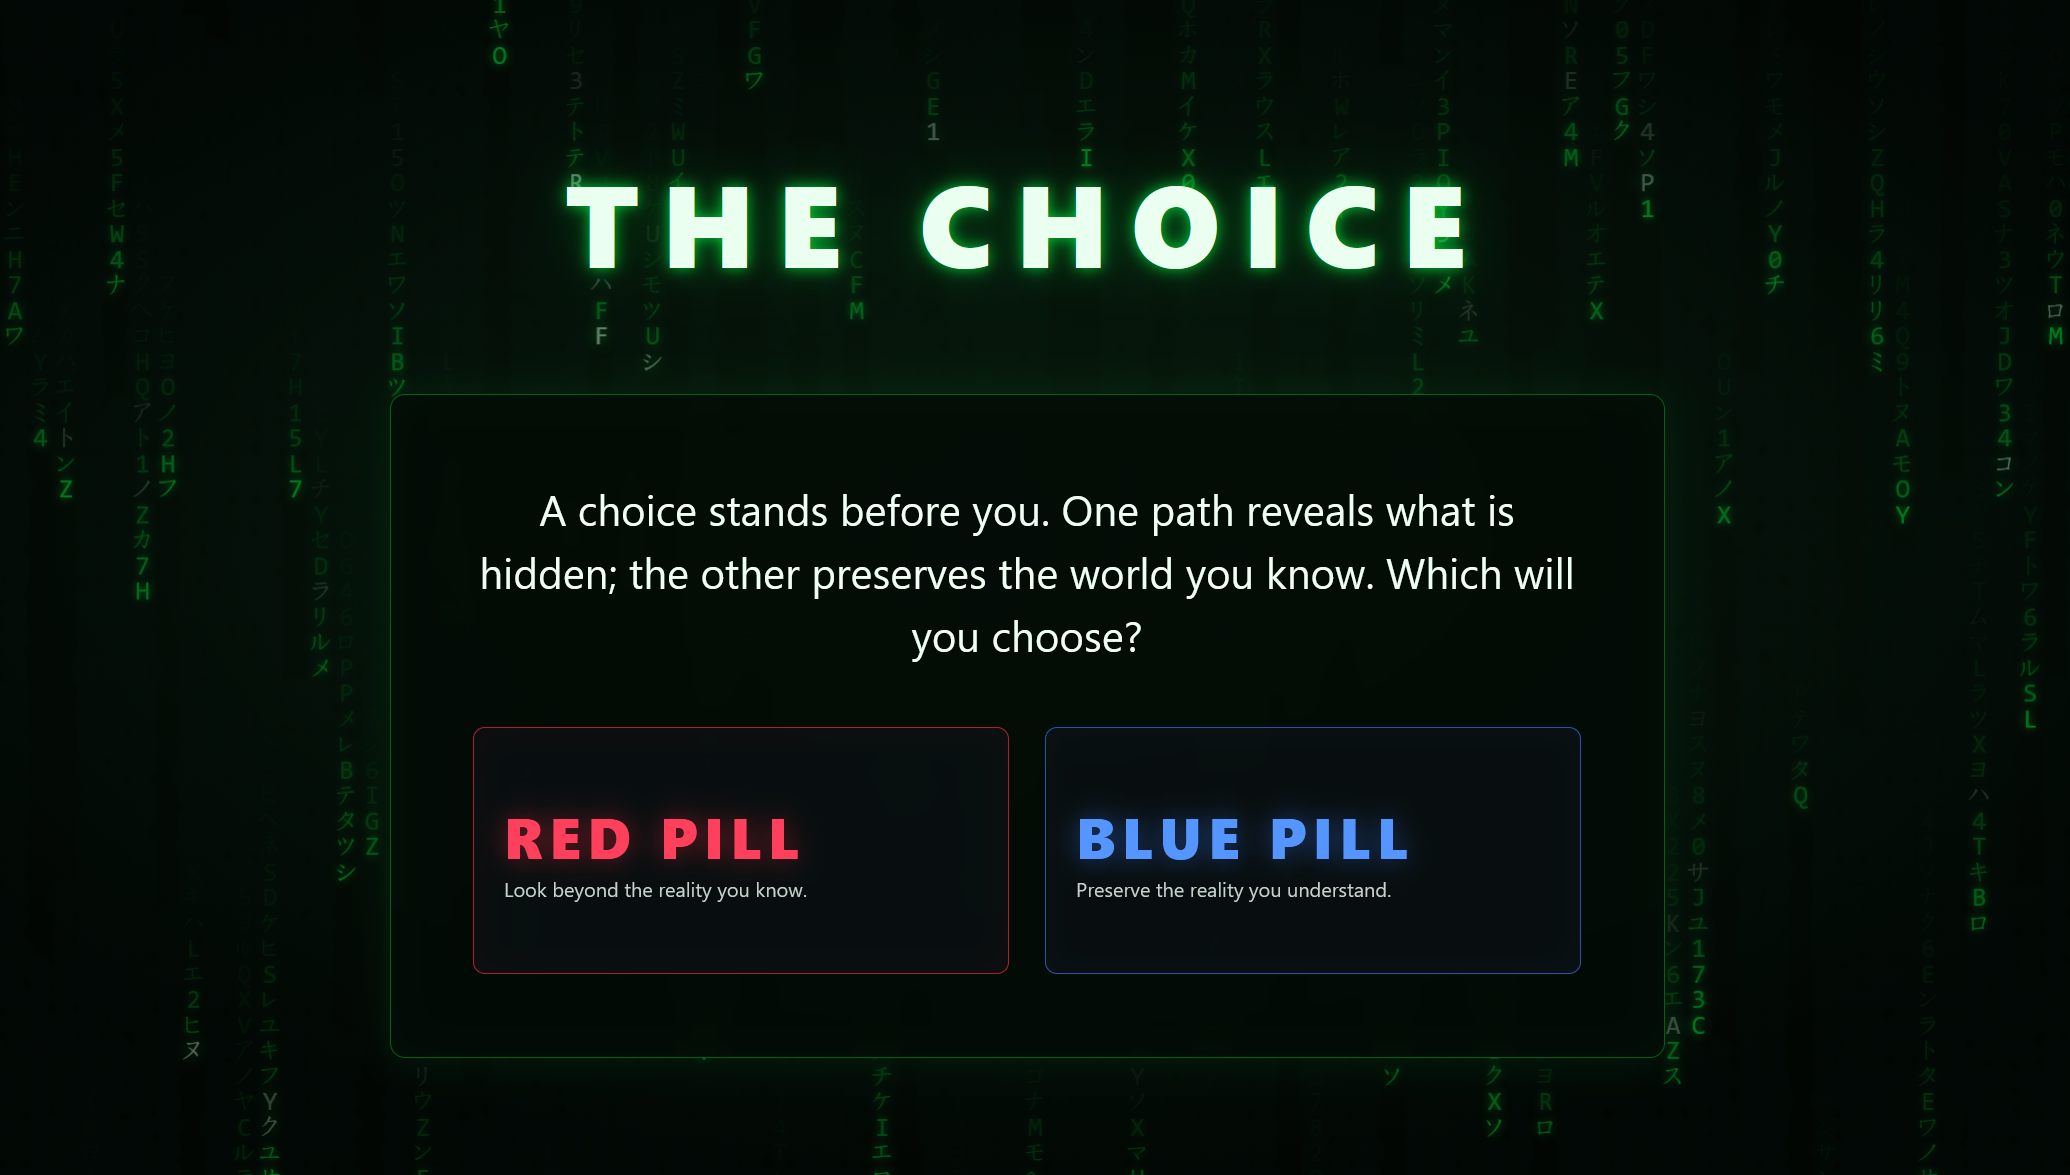
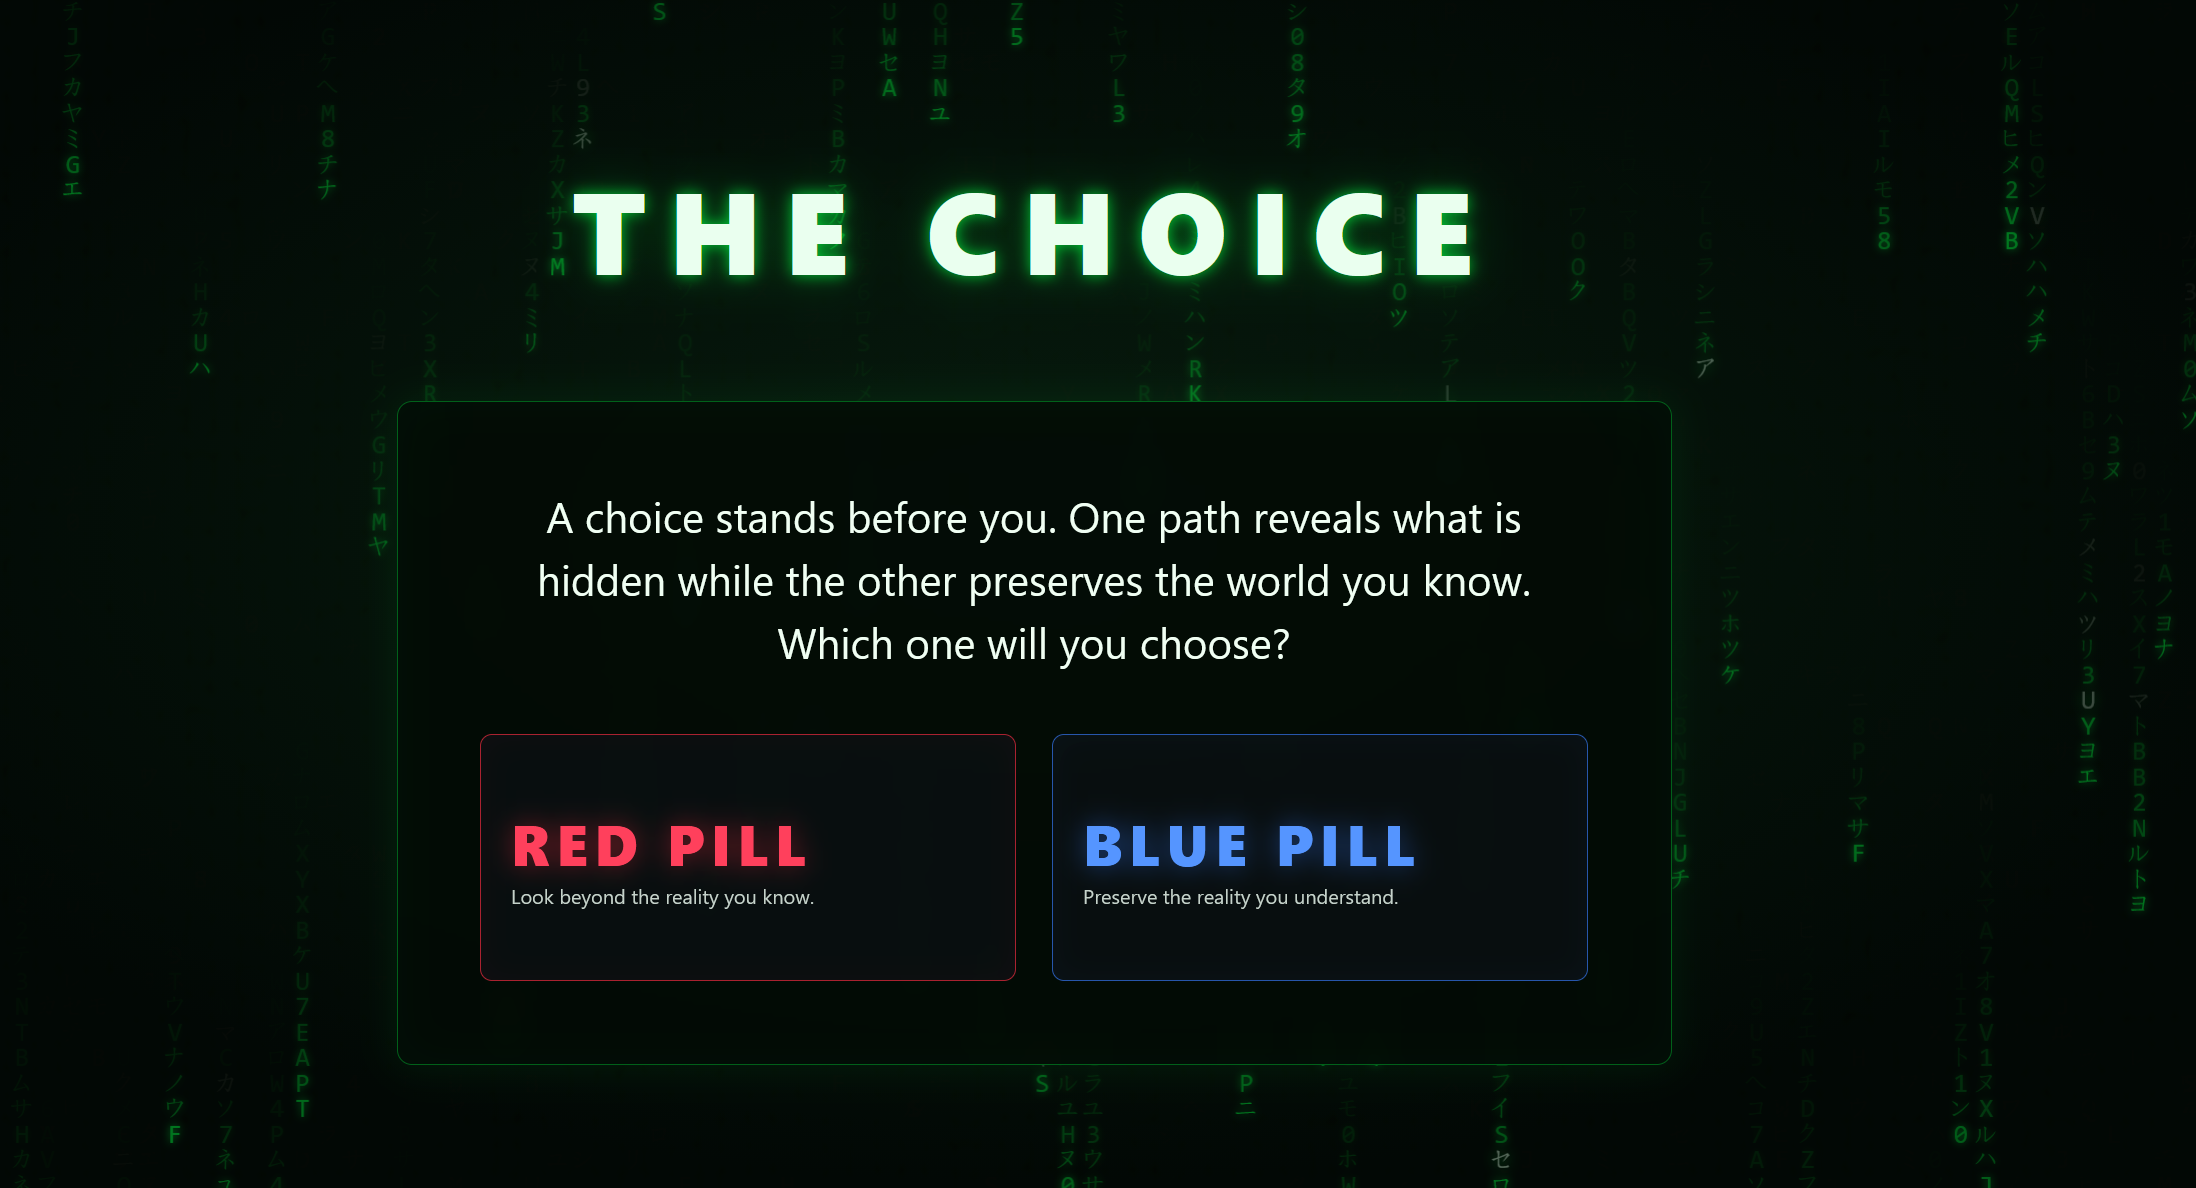
modified:   db/seed.py 	modified:   docs/images/image.png

diff --git a/db/seed.py b/db/seed.py
@@ -9,7 +9,7 @@ import psycopg
 QUESTIONS = [
     (
         "START",
-        "A choice stands before you. One path reveals what is hidden while "
+        "A choice stands before you. One path reveals what is hidden, while "
         "the other preserves the world you know. Which one will you choose?",
         True,
     ),
@@ -53,8 +53,8 @@ QUESTIONS = [
 
 OPTIONS = [
     # Starting question
-    ("START", "R", "Look beyond the reality you know.", "RED_1", 1),
-    ("START", "B", "Preserve the reality you understand.", "BLUE_1", 2),
+    ("START", "R", "Look beyond the reality you know", "RED_1", 1),
+    ("START", "B", "Preserve the reality you understand", "BLUE_1", 2),
 
     # Second question: RED
     (
